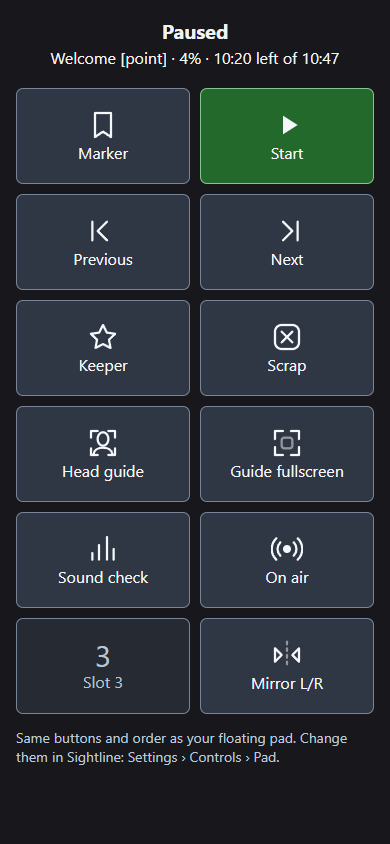
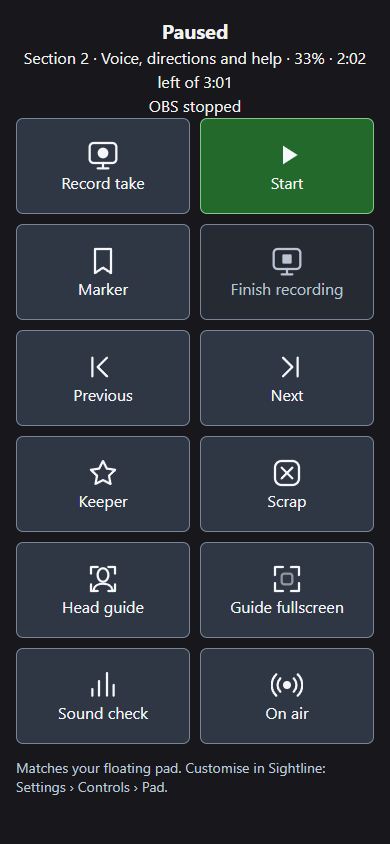
Fit Studio phone controls into a compact landscape layout

Changed region(s): [[0.0308, 0.0616, 0.9846, 0.955]]

diff --git a/src/client/phone.html b/src/client/phone.html
@@ -2,13 +2,13 @@
 <html lang="en">
 <head>
   <meta charset="UTF-8" />
-  <meta name="viewport" content="width=device-width, initial-scale=1" />
+  <meta name="viewport" content="width=device-width, initial-scale=1, viewport-fit=cover" />
   <meta name="theme-color" content="#18181c" />
   <title>Sightline remote</title>
   <link rel="stylesheet" href="/assets/pad.css" />
   <style>
     html,body { height: auto; min-height: 100%; overflow: auto; background: #18181c; color: #f2f2f2; touch-action: manipulation; }
-    main { max-width: 720px; margin: auto; padding: max(16px,env(safe-area-inset-top)) 16px max(16px,env(safe-area-inset-bottom)); }
+    main { max-width: 720px; margin: auto; padding: max(16px,env(safe-area-inset-top)) max(16px,env(safe-area-inset-right)) calc(max(16px,env(safe-area-inset-bottom)) + 24px) max(16px,env(safe-area-inset-left)); }
     #status { min-height: 72px; text-align: center; line-height: 1.5; }
     #state { font-size: 20px; font-weight: bold; }
     #state.offline { color: #ffb4a9; }
@@ -19,13 +19,24 @@
     .control-icon svg { width: 32px; height: 32px; }
     #connection-note { color: #bdc8d8; font-size: 14px; text-wrap: pretty; }
     @media(max-width:500px) { .control-grid { grid-template-columns: repeat(2,minmax(0,1fr)); } }
+    @media(orientation:landscape) and (min-width:600px) and (max-height:600px) {
+      main { max-width: 1200px; padding-top: max(8px,env(safe-area-inset-top)); padding-bottom: calc(max(12px,env(safe-area-inset-bottom)) + 16px); }
+      #status { display: flex; flex-wrap: wrap; justify-content: center; align-items: baseline; gap: 2px 12px; min-height: 0; margin-bottom: 8px; font-size: 13px; line-height: 1.3; }
+      #state { font-size: 16px; }
+      #section { order: 1; flex-basis: 100%; font-size: 14px; }
+      .control-grid { grid-template-columns: repeat(4,minmax(0,1fr)); gap: 8px; }
+      .control-grid:has(button:nth-child(9)) { grid-template-columns: repeat(6,minmax(0,1fr)); }
+      .control-grid button { min-height: 64px; padding: 7px 4px; font-size: 14px; gap: 4px; }
+      .control-icon svg { width: 24px; height: 24px; }
+      #connection-note { margin: 10px 0 0; font-size: 12px; line-height: 1.3; }
+    }
   </style>
 </head>
 <body>
   <main>
     <div id="status" role="status" aria-live="polite"><div id="state">Connecting…</div><div id="section"></div><div id="obs-status"></div></div>
     <div id="phone-buttons" class="control-grid" role="group" aria-label="Prompter controls"></div>
-    <p id="connection-note">Same buttons and order as your floating pad. Change them in Sightline: Settings › Controls › Pad.</p>
+    <p id="connection-note">Matches your floating pad. Customise in Sightline: Settings › Controls › Pad.</p>
   </main>
   <script type="module" src="/assets/phone-controls.js"></script>
 </body>

diff --git a/src/client/settings-pages.js b/src/client/settings-pages.js
@@ -146,7 +146,7 @@ export function addSettingsHelp( modal ) {
 	for ( const [ id, text ] of [
 		[ "set-countdown", "This countdown runs before prompting starts, giving you time to settle and look at the camera. It is separate from pauses written into a script. A zero starts prompting immediately." ],
 		[ "set-wake-word", "Say the wake word, leave a brief beat, then finish your command within four seconds. For example: Prompter, section one. Applying a new wake word refreshes the listener immediately." ],
-		[ "set-pad-columns", "The floating pad and phone share selected buttons and their order. The phone uses two columns on narrow screens. Stream Deck profiles keep their own assignments. Presets replace the selection; Compact resets it. OBS buttons appear only when OBS and recording controls are enabled." ],
+		[ "set-pad-columns", "The floating pad and phone share selected buttons and their order. Narrow phones use two columns; short landscape screens use four or six. Stream Deck profiles keep their own assignments. Presets replace the selection; Compact resets it. OBS buttons appear only when OBS and recording controls are enabled." ],
 		[ "set-voice-speed", "Responsiveness changes how quickly the display catches up with recognised speech. Increase it if the text lags; reduce it if movement feels abrupt. It does not change your target speaking pace or microphone sensitivity." ],
 		[ "set-directions", "Delivery notes such as [smile] and [point] guide your performance. They stay out of speech tracking, word counts and timing. Hiding a direction still keeps any quoted words that you are meant to read aloud." ],
 		[ "lp-bg-opacity", "The saved background level while off air. Switching ON AIR uses Background on air instead. Higher percentages give a more opaque background; lower percentages reveal more of the window behind Sightline." ],

diff --git a/docs/guide/06-remotes-and-screens.md b/docs/guide/06-remotes-and-screens.md
@@ -239,7 +239,9 @@ pages. Remove a button to hide it. Changes save immediately.
 The pad and phone share this selection and order, with the Stream Deck
 artwork and equivalent actions. Stream Deck profiles keep their own key
 assignments. Choose 2, 3, 4 or 6 pad columns; narrow phones use two columns
-for larger touch targets. Buttons reflect the current state. Empty slots
+for larger touch targets. Short landscape screens use four columns, or six
+for layouts with nine or more selected buttons. Order stays the same.
+Buttons reflect the current state. Empty slots
 are disabled; OBS controls appear only when OBS and recording permission
 are enabled, and require a connection. Long pads can scroll within the screen.
 
@@ -293,6 +295,14 @@ The code appears after **Apply** or **Save & close**; reopen Settings if needed.
 It also works in the separate movable Settings window (fixed in RC10).
 
 ![The phone remote](images/phone-remote.png)
+
+In the next candidate, rotating to landscape uses the available width and
+shorter buttons: the 12-button Studio layout fits in two rows on typical
+phone screens. Portrait keeps its large touch targets. The footer has extra
+space above browser controls, and long layouts remain scrollable. This is
+development work for RC15; the installed RC14 still has the earlier layout.
+
+![Compact landscape layout with all twelve Studio buttons](images/phone-landscape.png)
 
 Only a phone with the code in the QR code can connect. **New code**
 disconnects any phone already connected. The first time, Windows may ask

diff --git a/ROADMAP.md b/ROADMAP.md
@@ -58,6 +58,9 @@ RC13 completes the customisable pad (#56), shares its layout with the phone,
 and adds bounded listening recovery, immediate wake-word changes and opt-in tracing.
 RC14 puts support logs and the optional word trace in **About > Debug**, with
 the trace off by default and a visible nearby-conversation warning.
+**RC15 work in progress:** compact phone landscape controls are built and
+checked in portrait/landscape previews. Studio uses six columns and two rows,
+with extra footer spacing. No RC15 has been packaged or installed yet.
 
 The [acceptance walkthrough](docs/guide/14-acceptance-test.md) and two bundled
 sample scripts cover natural voice, physical Stream Deck controls, stops,

diff --git a/readme.md b/readme.md
@@ -244,6 +244,9 @@ mirroring under Screens and honours capture preferences for helper windows;
 **1.0.7-rc.12** adds independent size and colour for square-bracket comments.
 **1.0.7-rc.13** adds custom pad/phone layouts and listening recovery.
 **1.0.7-rc.14** gives troubleshooting controls their own **About > Debug** topic.
+**Next candidate work, not yet packaged:** compact phone landscape controls
+use four or six columns, with all 12 Studio buttons in two rows. Portrait
+keeps its large controls, and footer spacing accounts for browser controls.
 The latest published app remains **1.0.6**. No tag, merge, Marketplace publication or
 website deployment is part of this candidate.
 

diff --git a/docs/FEATURES.md b/docs/FEATURES.md
@@ -306,6 +306,8 @@ The whole workflow is in the guide:
   own Wi-Fi, protected by the code in the QR. It follows the pad's button
   selection and order with larger touch targets. Both reuse Stream Deck
   artwork and actions; hardware profiles stay independent.
+  Development for RC15 adds a compact landscape layout: four or six columns
+  with the same order, two rows for Studio, and browser-safe footer spacing.
 - **Listening recovery:** health checks restart interrupted capture or speech
   processing without moving the script or changing its hold. Silence and
   intentional listening-off do not cause restarts. Retries are bounded, with

diff --git a/TODO.md b/TODO.md
@@ -1,5 +1,11 @@
 # TODO
 
+## Built for the next candidate, not yet packaged
+
+- [x] Compact phone landscape layout: preserve button order, use four or six
+  columns, fit Studio in two rows and add browser-safe footer spacing.
+  Portrait/landscape previews checked; real iPhone acceptance follows RC15.
+
 ## Pending fixes for the next candidate batch
 
 - [ ] Accept and validate shared `padLayout` objects through the existing
